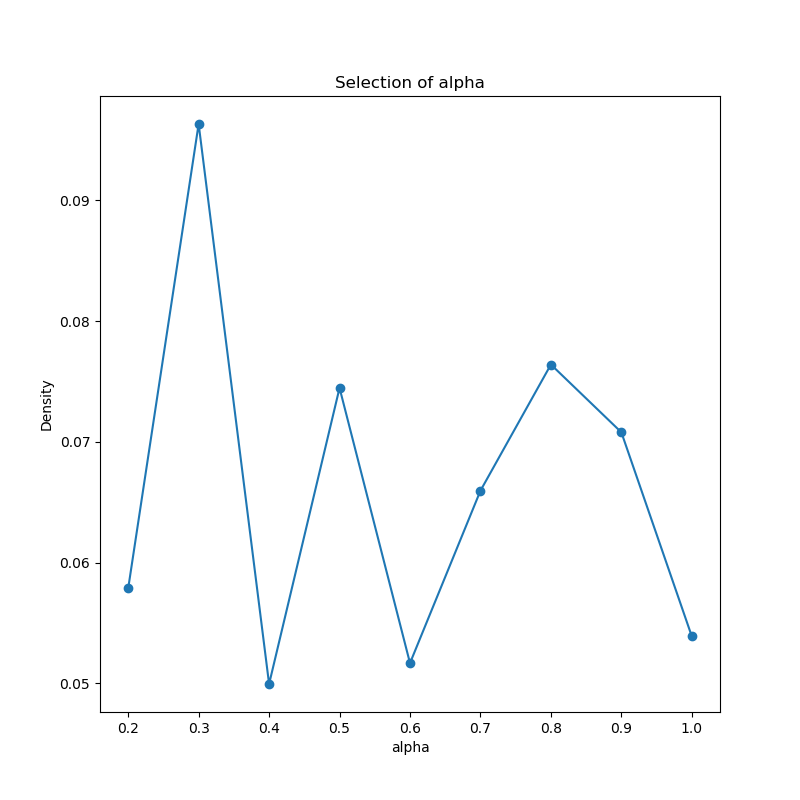
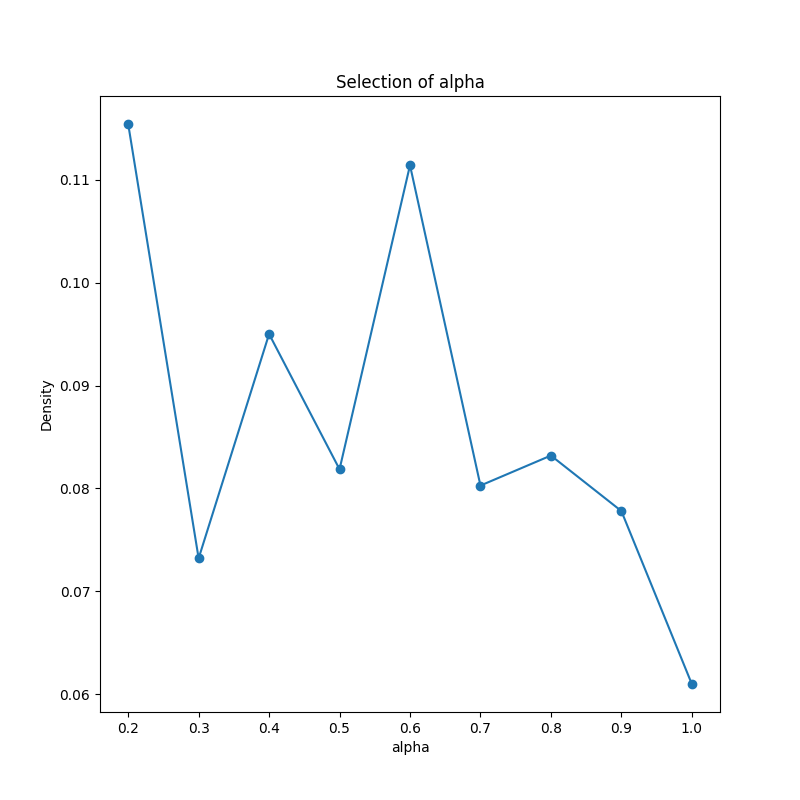
add metrics

diff --git a/main.py b/main.py
@@ -3,7 +3,16 @@ import numpy as np
 from algo import SCML
 import matplotlib.pyplot as plt
 from collections import Counter
-from sklearn.metrics import *
+from sklearn.metrics import v_measure_score as nmi
+from sklearn.metrics import silhouette_score
+from sklearn import metrics
+
+
+def purity_score(y_true, y_pred):
+    # compute contingency matrix (also called confusion matrix)
+    contingency_matrix = metrics.cluster.contingency_matrix(y_true, y_pred)
+    # return purity
+    return np.sum(np.amax(contingency_matrix, axis=0)) / np.sum(contingency_matrix)
 
 
 def init_graph():
@@ -12,8 +21,26 @@ def init_graph():
     with open(path) as f:
         for line in f:
             line = line.strip().split(',')
-            g.add_node(line[0])
+            if line[1] == 'NA':
+                continue
+            else:
+                g.add_node(line[0])
     return g
+
+
+def get_truth():
+    truth = []
+    na_list = []
+    path = './data/aucs_nodelist.txt'
+    with open(path) as f:
+        for line in f:
+            line = line.strip().split(',')
+            t = line[1]
+            if t == 'NA':
+                na_list.append(line[0])
+            else:
+                truth.append(int(t[-1])-1)
+    return truth, na_list
 
 
 def plot_elbow(x, y, name):
@@ -41,7 +68,7 @@ def get_partition(labels, nodes):
 
 def get_score(graph_list, partitions):
     density = np.zeros((len(graph_list), len(partitions)))
-    conductance = np.zeros((len(graph_list), len(partitions)))
+    # conductance = np.zeros((len(graph_list), len(partitions)))
     for i, g in enumerate(graph_list):
         for k in range(len(partitions)):
             g_sub = g.subgraph(partitions[k])
@@ -71,6 +98,7 @@ def main():
         'work': work,
         'coauthor': coauthor,
     }
+    truth, na = get_truth()
 
     # Load data into graph
     print("--------------------------------------------------Load multilayers graph--------------------------------------------------")
@@ -78,35 +106,38 @@ def main():
         for line in f:
             line = line.strip().split(',')
             name = line[2]
-            table[name].add_edge(line[0], line[1])
+            if line[0] in na or line[1] in na:
+                continue
+            else:
+                table[name].add_edge(line[0], line[1])
     for name, graph in table.items():
         print("\nGraph: {}".format(name))
         print("\tNumber of nodes: {}".format(nx.number_of_nodes(graph)))
         print("\tNumber of edges: {}".format(nx.number_of_edges(graph)))
 
-    graph_list = [lunch, facebook, leisure, work, coauthor]
+    graph_list = [lunch, work, facebook]
     node_list = list(lunch.nodes)
 
-    # Tunning k
-    print("--------------------------------------------------Perform k clusters selection--------------------------------------------------")
-    sse_list = []
-    range_k = np.arange(2, 15)
-    for k in range_k:
-        labels, matrix, sse = SCML(graph_list, k, 0.5)
-        score = silhouette_score(matrix, labels, random_state=42)
-        print("Number of clusters k = {}".format(k),
-              ",Silhouette Score = {}".format(round(score, 5)))
-        sse_list.append(sse)
+    # # Tunning k
+    # print("--------------------------------------------------Perform k clusters selection--------------------------------------------------")
+    # sse_list = []
+    # range_k = np.arange(2, 15)
+    # for k in range_k:
+    #     labels, sse = SCML(graph_list, k, 0.5)
+    #     score = silhouette_score(matrix, labels, random_state=42)
+    #     print("Number of clusters k = {}".format(k),
+    #           ",Silhouette Score = {}".format(round(score, 5)))
+    #     sse_list.append(sse)
 
-    # Plot elbow method for k
-    plot_elbow(range_k, sse_list, "Selection of k")
+    # # Plot elbow method for k
+    # plot_elbow(range_k, sse_list, "Selection of k")
 
     # Tunning alpha
     print("--------------------------------------------------Perform alpha selection--------------------------------------------------")
     range_a = np.arange(0.2, 1.1, 0.1)
     den = []
     for alpha in range_a:
-        labels, matrix, sse = SCML(graph_list, 8, alpha)
+        labels, sse = SCML(graph_list, 8, alpha)
         partitions = get_partition(labels, node_list)
         density = get_score(graph_list, partitions)
         den.append(density)
@@ -117,18 +148,14 @@ def main():
     plot_elbow(range_a, den, "Selection of alpha")
 
     # Select the best model
-    labels, matrix, sse = SCML(graph_list, 8, 0.5)
+    labels, sse = SCML(graph_list, 8, 0.6)
     partitions = get_partition(labels, node_list)
-    get_score(graph_list, partitions)
+    # print(labels)
+    # print(np.array(truth))
 
-    # Evaluation of clustring
-    # print("--------------------------------------------------Clustering evaluation--------------------------------------------------")
-    # db_index = round(davies_bouldin_score(matrix, labels), 5)
-    # ch_index = round(calinski_harabasz_score(matrix, labels), 5)
-    # s_coef = round(silhouette_score(matrix, labels, metric='euclidean'), 5)
-    # print("Silhouette Score: {}".format(s_coef))
-    # print("Davies-Bouldin Score: {}".format(db_index))
-    # print("Calinski-Harabaz Score: {}".format(ch_index))
+    print("NMI: {}".format(nmi(truth, labels)))
+    purity = purity_score(truth, labels)
+    print("Purity: {}".format(purity))
 
 
 if __name__ == "__main__":

diff --git a/algo.py b/algo.py
@@ -51,4 +51,4 @@ def SCML(G, k, alpha):
                     n_init=30, random_state=1).fit(U)
     labels = kmeans.predict(U)
     sse = kmeans.inertia_
-    return labels, U, sse
+    return labels, sse
